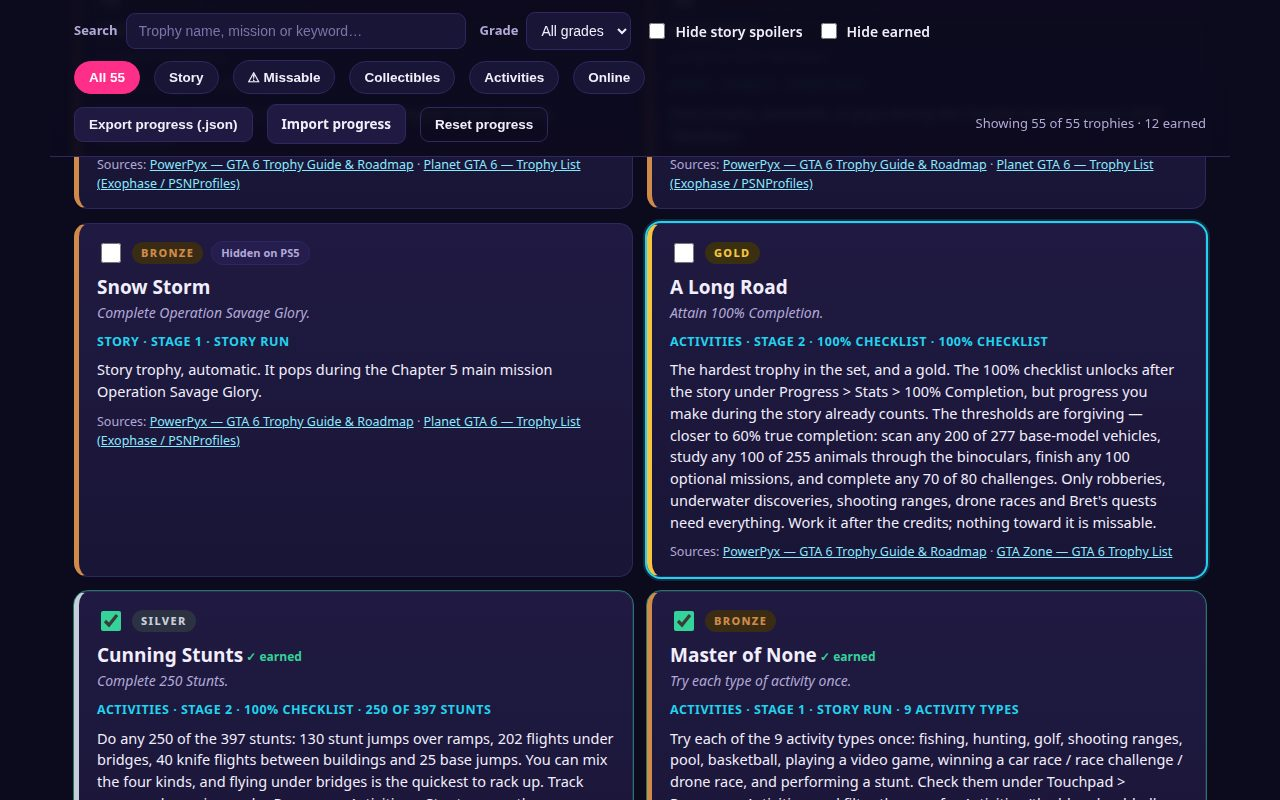
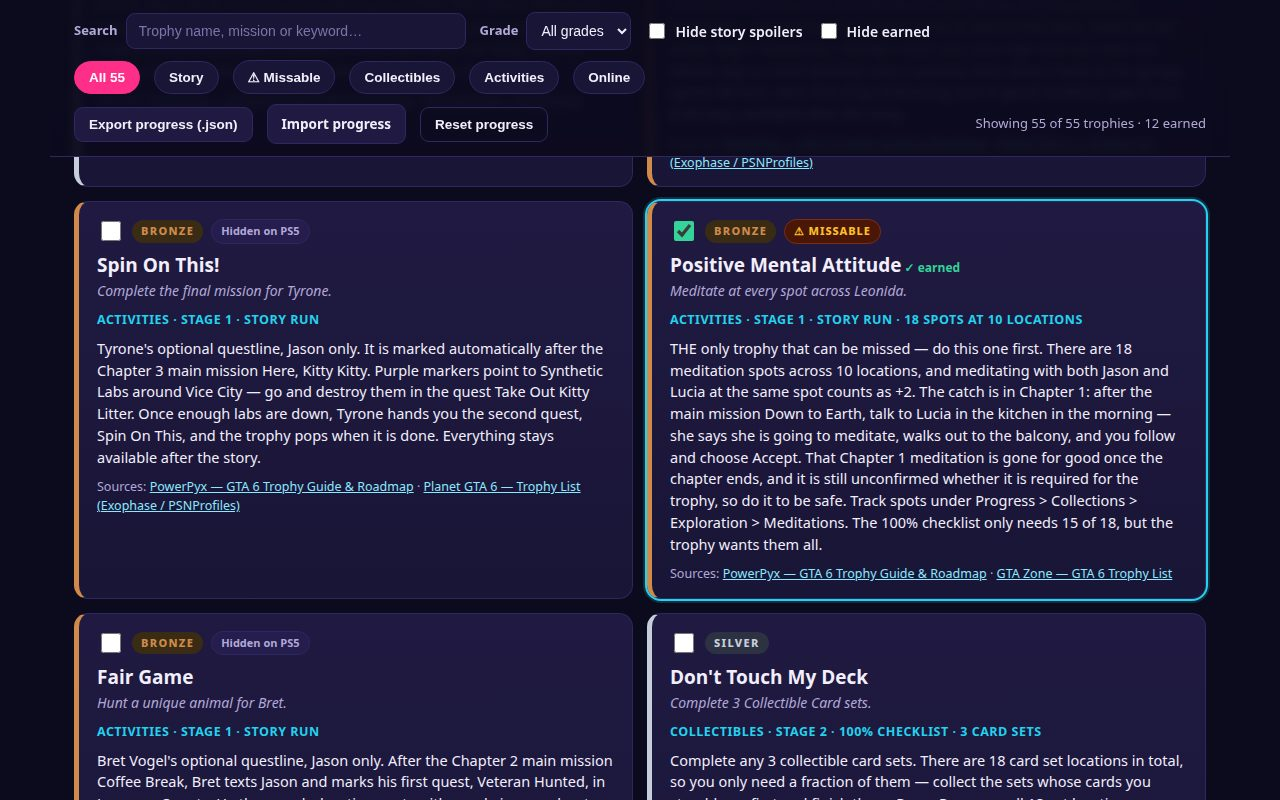
Guide shot spotlights the missable trophy (Positive Mental Attitude)

Changed region(s): [[0.0312, 0.1875, 0.9688, 1.0]]

diff --git a/app/app.js b/app/app.js
@@ -319,7 +319,10 @@ function applyShot() {
   } else if (shotMode === 'roadmap') {
     scrollTo = document.getElementById('roadmap');
   } else if (shotMode === 'guide') {
-    openId = 14;
+    // Spotlight the one missable trophy: its guide is the longest single
+    // guide in the set, and the MISSABLE flag is a judging criterion the
+    // screenshots must show.
+    openId = 28;
     setKind('all');
   } else if (shotMode === 'spoiler') {
     spoilerBox.checked = true;
